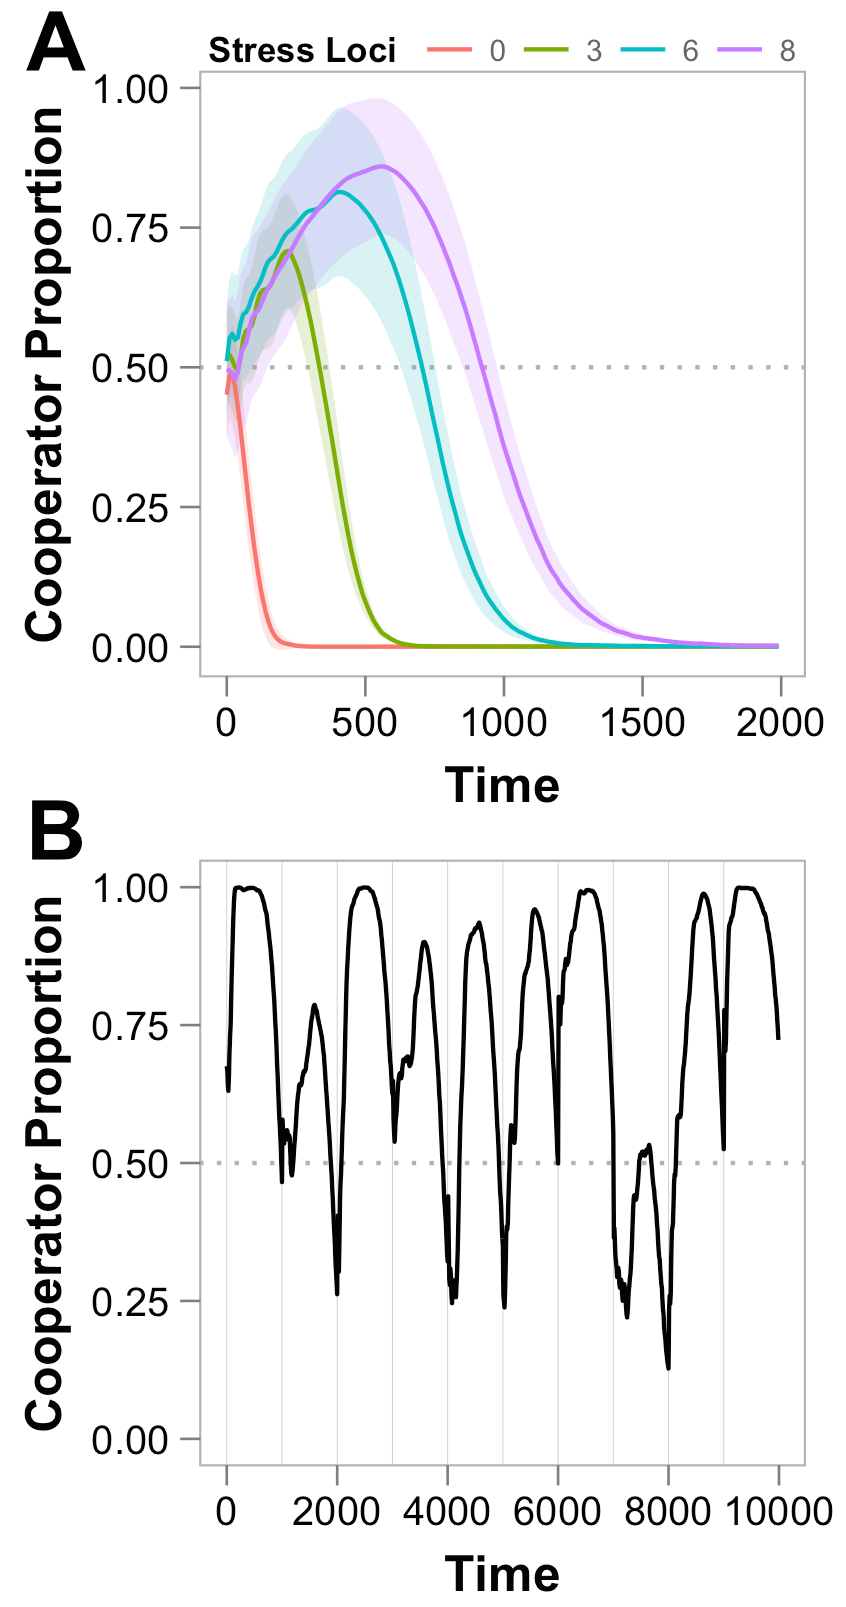
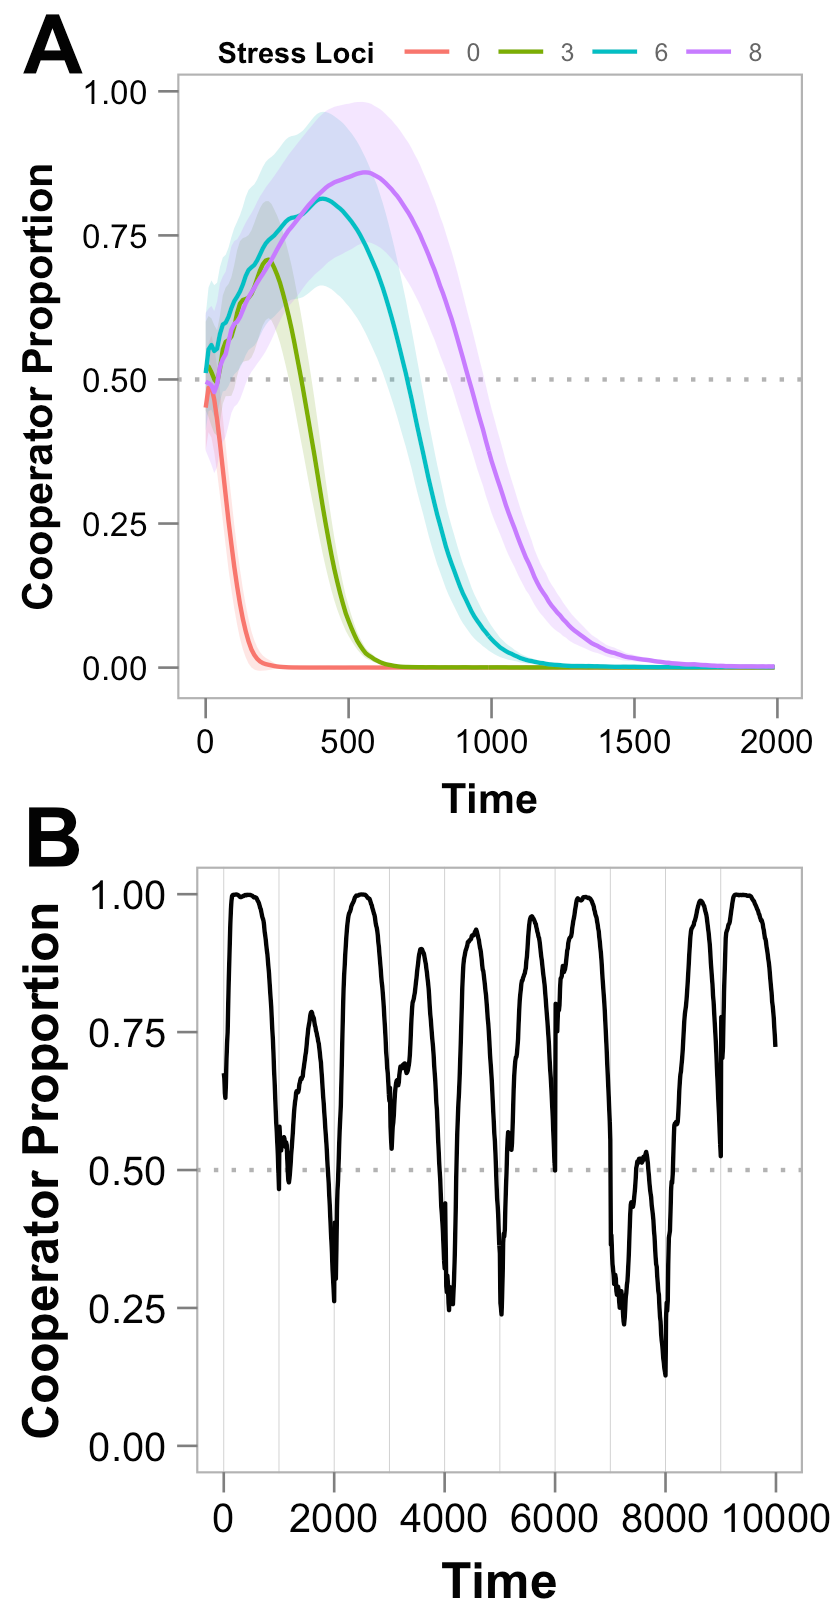
Updates to BEACON Proposal
* Moved model description to end
* Changed pandoc to build section identifiers
* Included NOTES.md in repository

diff --git a/BEACON_Proposal/proposal.md b/BEACON_Proposal/proposal.md
@@ -64,20 +64,36 @@ themselves. Through their metabolism, their interactions with others, and even
 through their death, organisms constantly modify their environment. These
 changes can produce feedback loops in which environmental change alters
 selection, which, in turn, alters phenotypes and their corresponding effects on
-the environment. **The proposed research aims to reveal how endogenous
-environmental change, or *niche construction* [@odling2003niche], affects the
-evolution of cooperation.**
+the environment. **This research aims to reveal how endogenous environmental
+change, or *niche construction*, [@odling2003niche] affects the evolution of
+cooperation.**
 
 
-#### Model Overview
+### Aim 1: Phenotype-Driven Niche Construction
+
+- what will this address?
+- Spite as part of this
+
+Model described in [Model Overview](#model)
+
+
+### Aim 2: Feedbacks in Host-Symbiont Co-Evolution
+
+As described in the previous aim, the environmental state was implicit,
+depending only on the state of the population.
+
+paper [@hamblin2014viral]
+
+
+#### Model Overview {#model}
 
 In our agent-based model, evolution occurs in a metapopulation where
 populations are connected by limited migration. During each simulation cycle,
 populations grow to carrying capacity, mutate, and migrate to neighboring
 populations.
 
-Individuals have a length $L + 1$ genotype. The first $L$ loci are *stress
-loci*, and are each occupied by a $0$ or an integer from the set $A = \{1,
+Individuals have a length $L+1$ genotype. The first $L$ loci are *stress
+loci*, and are each occupied by a $0$ or an integer from the set $A=\{1,
 \ldots, a_{max}\}$, where $a_{max}$ is the number of possible alleles. These
 alleles represent adaptations to the environment, and the number of loci
 determine the number of possible adaptations. All non-zero alleles carry
@@ -110,22 +126,10 @@ this change with probability $\mu_{t}$, which represents the likelihood of
 gaining a mutation conferring tolerance.
 
 
-### Aim 1: Phenotype-Driven Niche Construction
-
-Spite as part of this
-
-
-### Aim 2: Feedbacks in Host-Symbiont Co-Evolution
-
-As described in the previous aim, the environmental state was implicit,
-depending only on the state of the population.
-
-paper [@hamblin2014viral]
-
 \newpage
 
-![This is the caption](figures/Figure1all.png)
-
+\renewcommand{\figurename}{Fig.}
+![(**A**) With "genetic niche hiking", cooperators outrun defectors by association with non-social adaptations that compensate for the cost of cooperation. Once defectors become equally adapted, they drive cooperators from the population. (**B**) When environmental change occurs frequently (here every 1,000 cycles), the continual opportunity for adaptation allows cooperators to persist indefinitely.](figures/Figure1all-scaled.png)
 
 \newpage
 

diff --git a/BEACON_Proposal/NOTES.md b/BEACON_Proposal/NOTES.md
@@ -1,0 +1,8 @@
+# TODO
+* Lift methods from GNH paper
+* High quality version of Figure 1
+    * latex wrapfig package for final version
+    * width: 2" or 2.5"
+
+# Misc:
+* could cut "identify and"
